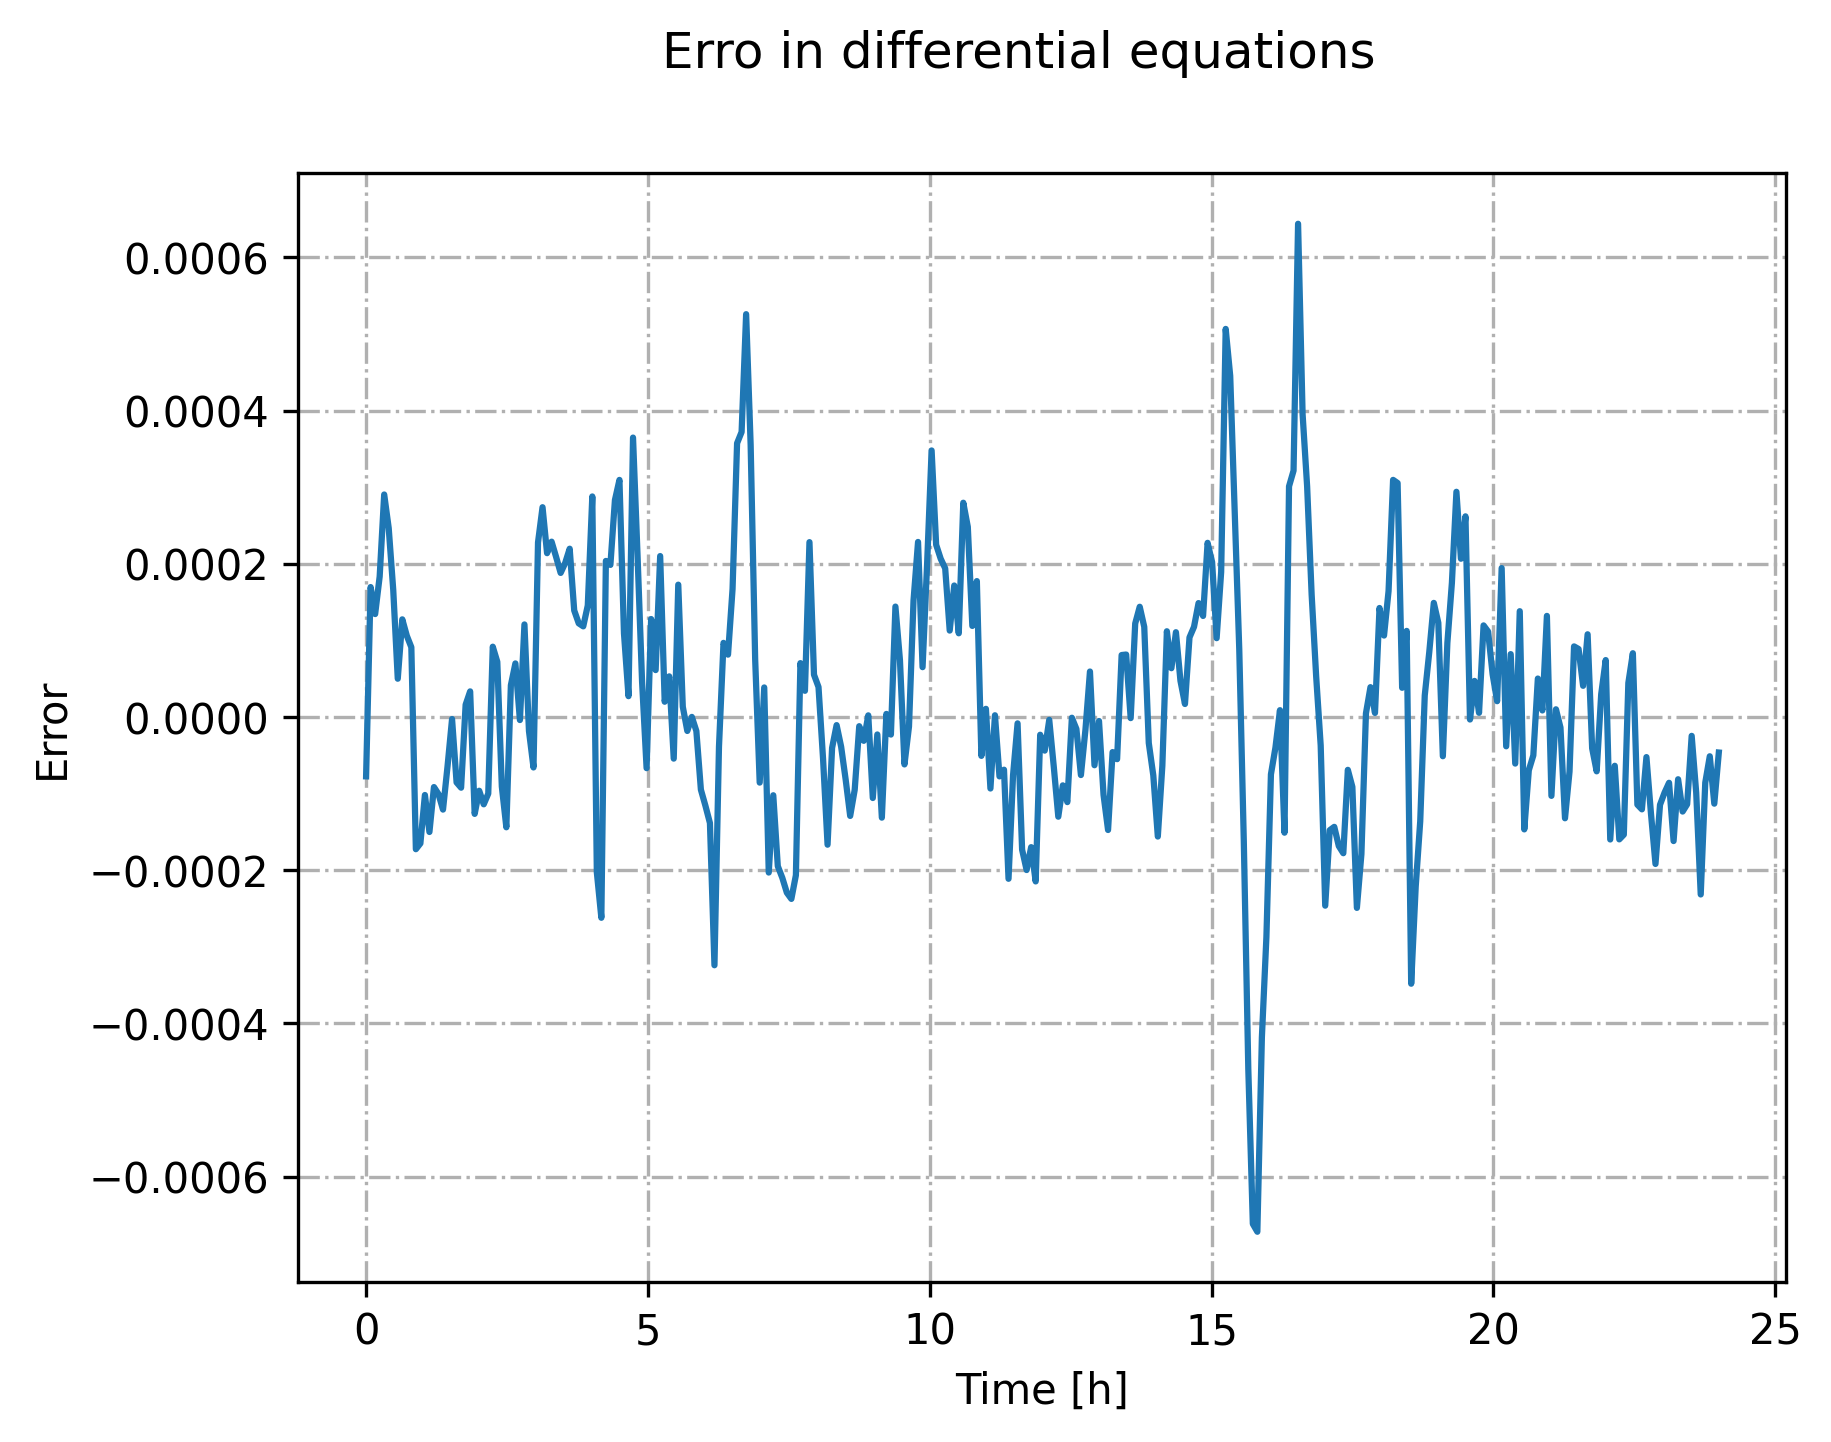
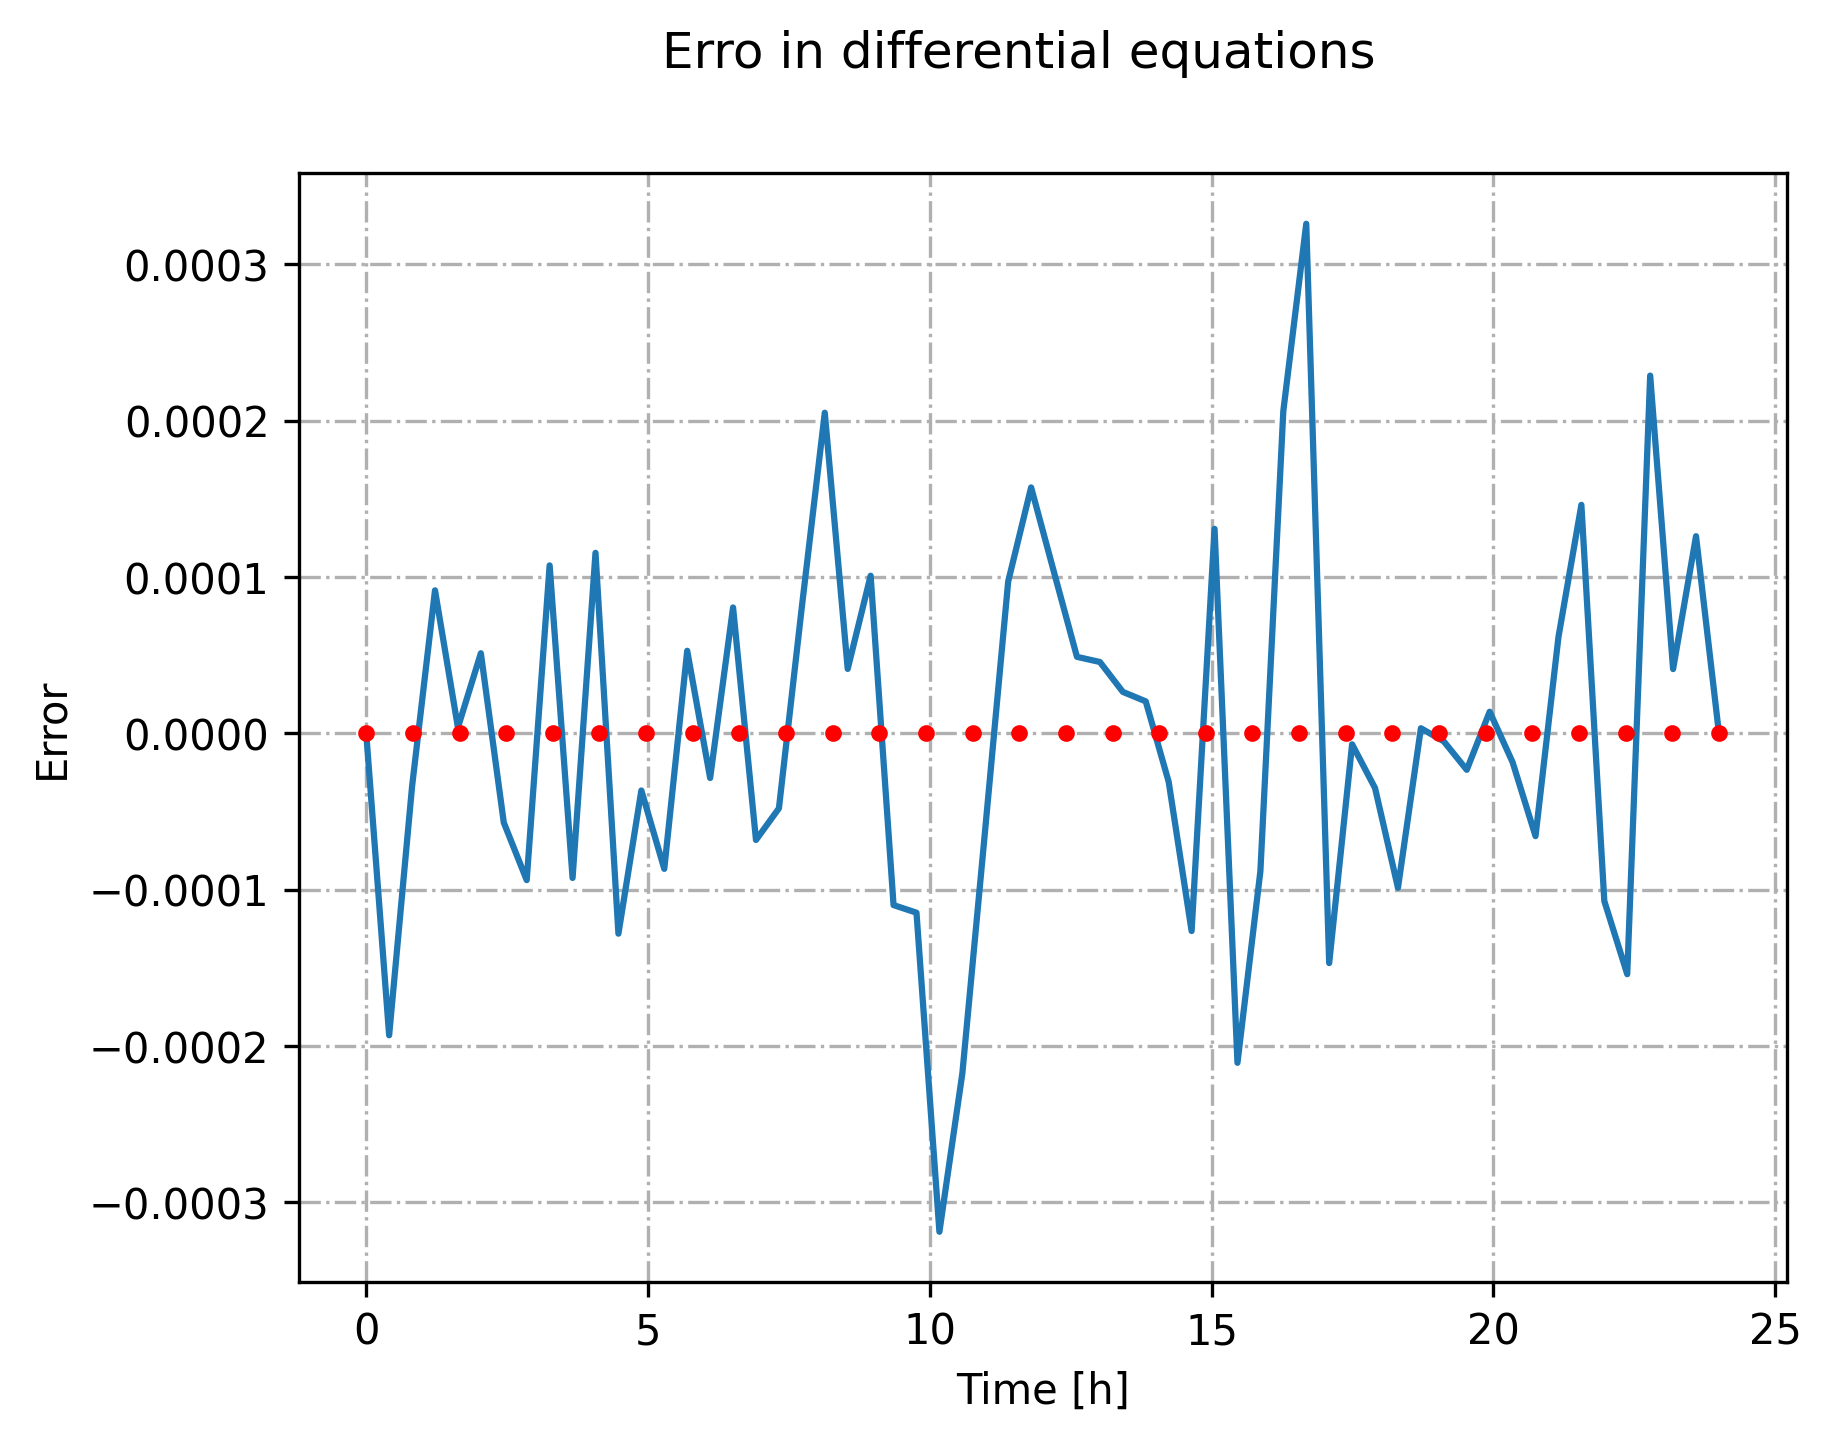
Try to fix the evaluation of error

diff --git a/ocp-1-hs-collocation.py b/ocp-1-hs-collocation.py
@@ -124,23 +124,23 @@ optimzation_status = files.get_optimization_status(ipopt_log_file)
 # Retrieve the solution
 trajectories = ca.Function('trajectories', [w], [x_plot, u_plot], ['w'], ['x', 'u'])
 x_opt, u_opt = trajectories(sol['x'])
-x_opt = x_opt.full()
-u_opt = u_opt.full() 
+x_opt = x_opt.full().flatten()
+u_opt = u_opt.full().flatten()
 
 # Plot results
-f_x_opt = interpolate.InterpolatedUnivariateSpline(t, x_opt, k=3) # k=2 is a quadratic spline
-f_u_opt = interpolate.InterpolatedUnivariateSpline(t, u_opt, k=2) # k=1 is a linear spline
+f_x_opt = interpolate.interp1d(t, x_opt, kind=3) # k=3 is a cubic spline
+f_u_opt = interpolate.interp1d(t, u_opt, kind=2) # k=2 is a quadratic spline
 t_new = np.arange(0, Tf, 0.1)
 
 fig, axs = plt.subplots(2,1)
 fig.suptitle('Simulation Results: ' + optimzation_status + '\nCost: ' + str(sol['f']) + ' (W)')
 
-axs[0].plot(t/60, *u_opt, '.r', t_new/60, f_u_opt(t_new), '-b')
+axs[0].plot(t/60, u_opt, '.r', t_new/60, f_u_opt(t_new), '-b')
 axs[0].set_ylabel('Electrolyzer current [A]')
 axs[0].grid(axis='both',linestyle='-.')
 axs[0].set_xticks(np.arange(0, 26, 2))
 
-axs[1].plot(t/60, *x_opt, '.r', t_new/60, f_x_opt(t_new), '-g')
+axs[1].plot(t/60, x_opt, '.r', t_new/60, f_x_opt(t_new), '-g')
 axs[1].set_ylabel('Hydrogen [Nm3]')
 axs[1].set_xlabel('Time [h]')
 axs[1].grid(axis='both',linestyle='-.')
@@ -149,16 +149,14 @@ axs[1].set_xticks(np.arange(0, 26, 2))
 plt.savefig(files.get_plot_file_name(__file__), bbox_inches='tight', dpi=300)
 
 # Evaluate the error
-f_x_opt_dot = f_x_opt.derivative()
-
-t = np.linspace(0, Tf, num=10*N, endpoint=True)
-
-error = f_x_opt_dot(t) - f(f_x_opt(t), f_u_opt(t), t)[0]
+te = np.linspace(0, Tf, num=2*N, endpoint=True)
+f_interpolated = interpolate.interp1d(t, f(x_opt, u_opt, t)[0].full().flatten(), kind=2)
+error = f(f_x_opt(te), f_u_opt(te), te)[0] - f_interpolated(te)
 
 # Plot error
 fig2 = plt.figure(2)
 fig2.suptitle('Erro in differential equations')
-plt.plot(t/60, error)
+plt.plot(te/60, error, '-', t/60, np.zeros(len(t)), '.r')
 plt.ylabel('Error')
 plt.xlabel('Time [h]')
 plt.grid(axis='both',linestyle='-.')

diff --git a/ocp-1-trapezoid-collocation.py b/ocp-1-trapezoid-collocation.py
@@ -118,23 +118,23 @@ optimzation_status = files.get_optimization_status(ipopt_log_file)
 # Retrieve the solution
 trajectories = ca.Function('trajectories', [w], [x_plot, u_plot], ['w'], ['x', 'u'])
 x_opt, u_opt = trajectories(sol['x'])
-x_opt = x_opt.full()
-u_opt = u_opt.full() 
+x_opt = x_opt.full().flatten()
+u_opt = u_opt.full().flatten()
 
 # Plot results
-f_x_opt = interpolate.InterpolatedUnivariateSpline(t, x_opt, k=2) # k=2 is a quadratic spline
-f_u_opt = interpolate.InterpolatedUnivariateSpline(t, u_opt, k=1) # k=1 is a linear spline
+f_x_opt = interpolate.interp1d(t, x_opt, kind=2) # k=2 is a quadratic spline
+f_u_opt = interpolate.interp1d(t, u_opt, kind=1) # k=1 is a linear spline
 t_new = np.arange(0, Tf, 1)
 
 fig, axs = plt.subplots(2,1)
 fig.suptitle('Simulation Results: ' + optimzation_status + '\nCost: ' + str(sol['f']) + ' (W)')
 
-axs[0].plot(t/60, *u_opt, '.r', t_new/60, f_u_opt(t_new), '-b')
+axs[0].plot(t/60, u_opt, '.r', t_new/60, f_u_opt(t_new), '-b')
 axs[0].set_ylabel('Electrolyzer current [A]')
 axs[0].grid(axis='both',linestyle='-.')
 axs[0].set_xticks(np.arange(0, 26, 2))
 
-axs[1].plot(t/60, *x_opt, '.r', t_new/60, f_x_opt(t_new), '-g')
+axs[1].plot(t/60, x_opt, '.r', t_new/60, f_x_opt(t_new), '-g')
 axs[1].set_ylabel('Hydrogen [Nm3]')
 axs[1].set_xlabel('Time [h]')
 axs[1].grid(axis='both',linestyle='-.')
@@ -143,16 +143,14 @@ axs[1].set_xticks(np.arange(0, 26, 2))
 plt.savefig(files.get_plot_file_name(__file__), bbox_inches='tight', dpi=300)
 
 # Evaluate the error
-f_x_opt_dot = f_x_opt.derivative()
-
-t = np.linspace(0, Tf, num=10*N, endpoint=True)
-
-error = f_x_opt_dot(t) - f(f_x_opt(t), f_u_opt(t), t)[0]
+te = np.linspace(0, Tf, num=2*N, endpoint=True)
+f_interpolated = interpolate.interp1d(t, f(x_opt, u_opt, t)[0].full().flatten(), kind=1)
+error = f(f_x_opt(te), f_u_opt(te), te)[0] - f_interpolated(te)
 
 # Plot error
 fig2 = plt.figure(2)
 fig2.suptitle('Erro in differential equations')
-plt.plot(t/60, error)
+plt.plot(te/60, error, '-', t/60, np.zeros(len(t)), '.r')
 plt.ylabel('Error')
 plt.xlabel('Time [h]')
 plt.grid(axis='both',linestyle='-.')
